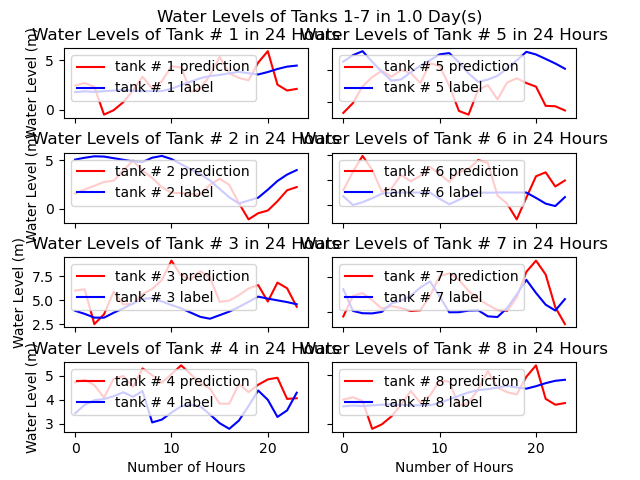
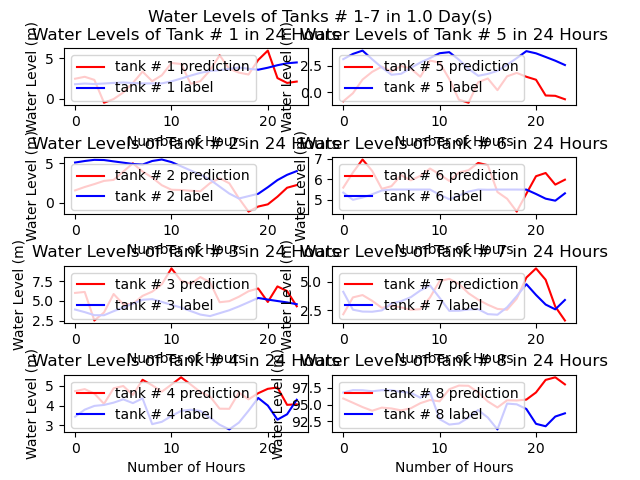
add plot flow rate

Changed region(s): [[0.0, 0.0, 0.9688, 0.9688], [0.8125, 0.0938, 0.9062, 0.1562]]

diff --git a/src/TGCN/tensorflow_model/utils/visualization.py b/src/TGCN/tensorflow_model/utils/visualization.py
@@ -47,7 +47,7 @@ def plot_result_tank(test_result, test_label, path, hour = 24):
     # plot 1 day for all water levels from tank 1-7
     fig1, axs = plt.subplots(4,2)
     hour_cal = float(hour) / 24.0
-    fig_name = "Water Levels of Tanks 1-7 in " + str(hour_cal) + " Day(s)"
+    fig_name = "Water Levels of Tanks # 1-7 in " + str(hour_cal) + " Day(s)"
     fig1.suptitle(fig_name)
     
     # tank 1
@@ -56,7 +56,8 @@ def plot_result_tank(test_result, test_label, path, hour = 24):
     axs[0, 0].plot(tank1_pred, "r-", label="tank # 1 prediction")
     axs[0, 0].plot(tank1_true, "b-", label="tank # 1 label")
     axs[0, 0].legend(loc="upper left", fontsize=10)
-    axs[0, 0].set_title("Water Levels of Tank # 1 in 24 Hours")
+    sub_hour_1 = "Water Levels of Tank # 1 in " + str(hour) + " Hours"
+    axs[0, 0].set_title(sub_hour_1)
     
     # tank 2
     tank2_pred = test_result[0:hour, 1] # 1 days for 1 cols
@@ -64,7 +65,8 @@ def plot_result_tank(test_result, test_label, path, hour = 24):
     axs[1, 0].plot(tank2_pred, "r-", label="tank # 2 prediction")
     axs[1, 0].plot(tank2_true, "b-", label="tank # 2 label")
     axs[1, 0].legend(loc="upper left", fontsize=10)
-    axs[1, 0].set_title("Water Levels of Tank # 2 in 24 Hours")
+    sub_hour_2 = "Water Levels of Tank # 2 in " + str(hour) + " Hours"
+    axs[1, 0].set_title(sub_hour_2)
 
     # tank 3
     tank3_pred = test_result[0:hour, 2] # 1 days for 1 cols
@@ -72,7 +74,8 @@ def plot_result_tank(test_result, test_label, path, hour = 24):
     axs[2, 0].plot(tank3_pred, "r-", label="tank # 3 prediction")
     axs[2, 0].plot(tank3_true, "b-", label="tank # 3 label")
     axs[2, 0].legend(loc="upper left", fontsize=10)
-    axs[2, 0].set_title("Water Levels of Tank # 3 in 24 Hours")
+    sub_hour_3 = "Water Levels of Tank # 3 in " + str(hour) + " Hours"
+    axs[2, 0].set_title(sub_hour_3)
     
     # tank 4
     tank4_pred = test_result[0:hour, 3] # 1 days for 1 cols
@@ -80,7 +83,8 @@ def plot_result_tank(test_result, test_label, path, hour = 24):
     axs[3, 0].plot(tank4_pred, "r-", label="tank # 4 prediction")
     axs[3, 0].plot(tank4_true, "b-", label="tank # 4 label")
     axs[3, 0].legend(loc="upper left", fontsize=10)
-    axs[3, 0].set_title("Water Levels of Tank # 4 in 24 Hours")
+    sub_hour_4 = "Water Levels of Tank # 4 in " + str(hour) + " Hours"
+    axs[3, 0].set_title(sub_hour_4)
     
     # tank 5
     tank5_pred = test_result[0:hour, 4] # 1 days for 1 cols
@@ -88,7 +92,8 @@ def plot_result_tank(test_result, test_label, path, hour = 24):
     axs[0, 1].plot(tank5_pred, "r-", label="tank # 5 prediction")
     axs[0, 1].plot(tank5_true, "b-", label="tank # 5 label")
     axs[0, 1].legend(loc="upper left", fontsize=10)
-    axs[0, 1].set_title("Water Levels of Tank # 5 in 24 Hours")
+    sub_hour_5 = "Water Levels of Tank # 5 in " + str(hour) + " Hours"
+    axs[0, 1].set_title(sub_hour_5)
     
     # tank 6
     tank6_pred = test_result[0:hour, 5] # 1 days for 1 cols
@@ -96,7 +101,8 @@ def plot_result_tank(test_result, test_label, path, hour = 24):
     axs[1, 1].plot(tank6_pred, "r-", label="tank # 6 prediction")
     axs[1, 1].plot(tank6_true, "b-", label="tank # 6 label")
     axs[1, 1].legend(loc="upper left", fontsize=10)
-    axs[1, 1].set_title("Water Levels of Tank # 6 in 24 Hours")
+    sub_hour_6 = "Water Levels of Tank # 6 in " + str(hour) + " Hours"
+    axs[1, 1].set_title(sub_hour_6)
     
     # tank 7
     tank7_pred = test_result[0:hour, 6] # 1 days for 1 cols
@@ -104,22 +110,24 @@ def plot_result_tank(test_result, test_label, path, hour = 24):
     axs[2, 1].plot(tank7_pred, "r-", label="tank # 7 prediction")
     axs[2, 1].plot(tank7_true, "b-", label="tank # 7 label")
     axs[2, 1].legend(loc="upper left", fontsize=10)
-    axs[2, 1].set_title("Water Levels of Tank # 7 in 24 Hours")
+    sub_hour_7 = "Water Levels of Tank # 7 in " + str(hour) + " Hours"
+    axs[2, 1].set_title(sub_hour_7)
     
     # tank 8
-    tank8_pred = test_result[0:hour, 0] # 1 days for 1 cols
-    tank8_true = test_label[0:hour, 0]  # 1 days for 1 cols
+    tank8_pred = test_result[0:hour, 7] # 1 days for 1 cols
+    tank8_true = test_label[0:hour, 7]  # 1 days for 1 cols
     axs[3, 1].plot(tank8_pred, "r-", label="tank # 8 prediction")
     axs[3, 1].plot(tank8_true, "b-", label="tank # 8 label")
     axs[3, 1].legend(loc="upper left", fontsize=10)
-    axs[3, 1].set_title("Water Levels of Tank # 8 in 24 Hours")
+    sub_hour_8 = "Water Levels of Tank # 8 in " + str(hour) + " Hours"
+    axs[3, 1].set_title(sub_hour_8)
 
     for ax in axs.flat:
         ax.set(xlabel='Number of Hours', ylabel='Water Level (m)')
     
-    # Hide x labels and tick labels for top plots and y ticks for right plots.
-    for ax in axs.flat:
-        ax.label_outer()
+    # # Hide x labels and tick labels for top plots and y ticks for right plots.
+    # for ax in axs.flat:
+    #     ax.label_outer()
       
     # set the spacing between subplots
     plt.subplots_adjust(left=0.1,
@@ -127,11 +135,134 @@ def plot_result_tank(test_result, test_label, path, hour = 24):
                         right=0.9, 
                         top=0.9, 
                         wspace=0.1, 
-                        hspace=0.5)  
+                        hspace=0.9)  
     
     plt.savefig(path + "/test_oneday_water_level.png")
     plt.show()
 
+def plot_result_pump(test_result, test_label, path, hour = 24):
+    """Plots test datasets ground truth labels vs predictions on ground truth features
+
+    Args:
+        test_result: Predictions on testing features.
+        test_label: Testing labels.
+        path: Saving image results in path.
+    """
+    # plot 1 day for all flowrate from pump 8-18
+    fig1, axs = plt.subplots(5,2)
+    hour_cal = float(hour) / 24.0
+    fig_name = "Flow Rates of Pumps # 8-18 in " + str(hour_cal) + " Day(s)"
+    fig1.suptitle(fig_name)
+    
+    # pump 1
+    pump1_pred = test_result[0:hour, 8] # 1 days for 1 cols
+    pump1_true = test_label[0:hour, 8]  # 1 days for 1 cols
+    axs[0, 0].plot(pump1_pred, "r-", label="pump # 1 prediction")
+    axs[0, 0].plot(pump1_true, "b-", label="pump # 1 label")
+    axs[0, 0].legend(loc="upper left", fontsize=10)
+    sub_hour_1 = "Flow Rates of Pump # 1 in " + str(hour) + " Hours"
+    axs[0, 0].set_title(sub_hour_1)
+    
+    # pump 2
+    pump2_pred = test_result[0:hour, 9] # 1 days for 1 cols
+    pump2_true = test_label[0:hour, 9]  # 1 days for 1 cols
+    axs[1, 0].plot(pump2_pred, "r-", label="pump # 2 prediction")
+    axs[1, 0].plot(pump2_true, "b-", label="pump # 2 label")
+    axs[1, 0].legend(loc="upper left", fontsize=10)
+    sub_hour_2 = "Flow Rates of Pump # 2 in " + str(hour) + " Hours"
+    axs[1, 0].set_title(sub_hour_2)
+
+    # pump 3
+    pump3_pred = test_result[0:hour, 10] # 1 days for 1 cols
+    pump3_true = test_label[0:hour, 10]  # 1 days for 1 cols
+    axs[2, 0].plot(pump3_pred, "r-", label="pump # 3 prediction")
+    axs[2, 0].plot(pump3_true, "b-", label="pump # 3 label")
+    axs[2, 0].legend(loc="upper left", fontsize=10)
+    sub_hour_3 = "Flow Rates of Pump # 3 in " + str(hour) + " Hours"
+    axs[2, 0].set_title(sub_hour_3)
+    
+    # pump 4
+    pump4_pred = test_result[0:hour, 11] # 1 days for 1 cols
+    pump4_true = test_label[0:hour, 11]  # 1 days for 1 cols
+    axs[3, 0].plot(pump4_pred, "r-", label="pump # 4 prediction")
+    axs[3, 0].plot(pump4_true, "b-", label="pump # 4 label")
+    axs[3, 0].legend(loc="upper left", fontsize=10)
+    sub_hour_4 = "Flow Rates of Pump # 4 in " + str(hour) + " Hours"
+    axs[3, 0].set_title(sub_hour_4)
+    
+    # pump 5
+    pump5_pred = test_result[0:hour, 12] # 1 days for 1 cols
+    pump5_true = test_label[0:hour, 12]  # 1 days for 1 cols
+    axs[4, 0].plot(pump5_pred, "r-", label="pump # 5 prediction")
+    axs[4, 0].plot(pump5_true, "b-", label="pump # 5 label")
+    axs[4, 0].legend(loc="upper left", fontsize=10)
+    sub_hour_5 = "Flow Rates of Pump # 5 in " + str(hour) + " Hours"
+    axs[4, 0].set_title(sub_hour_5)
+    
+    # pump 6
+    pump6_pred = test_result[0:hour, 13] # 1 days for 1 cols
+    pump6_true = test_label[0:hour, 13]  # 1 days for 1 cols
+    axs[0, 1].plot(pump6_pred, "r-", label="pump # 6 prediction")
+    axs[0, 1].plot(pump6_true, "b-", label="pump # 6 label")
+    axs[0, 1].legend(loc="upper left", fontsize=10)
+    sub_hour_6 = "Flow Rates of Pump # 6 in " + str(hour) + " Hours"
+    axs[0, 1].set_title(sub_hour_6)
+    
+    # pump 7
+    pump7_pred = test_result[0:hour, 14] # 1 days for 1 cols
+    pump7_true = test_label[0:hour, 14]  # 1 days for 1 cols
+    axs[1, 1].plot(pump7_pred, "r-", label="pump # 7 prediction")
+    axs[1, 1].plot(pump7_true, "b-", label="pump # 7 label")
+    axs[1, 1].legend(loc="upper left", fontsize=10)
+    sub_hour_7 = "Flow Rates of Pump # 7 in " + str(hour) + " Hours"
+    axs[1, 1].set_title(sub_hour_7)
+    
+    # pump 8
+    pump8_pred = test_result[0:hour, 15] # 1 days for 1 cols
+    pump8_true = test_label[0:hour, 15]  # 1 days for 1 cols
+    axs[2, 1].plot(pump8_pred, "r-", label="pump # 8 prediction")
+    axs[2, 1].plot(pump8_true, "b-", label="pump # 8 label")
+    axs[2, 1].legend(loc="upper left", fontsize=10)
+    sub_hour_8 = "Flow Rates of Pump # 8 in " + str(hour) + " Hours"
+    axs[2, 1].set_title(sub_hour_8)
+
+    # pump 9
+    pump7_pred = test_result[0:hour, 16] # 1 days for 1 cols
+    pump7_true = test_label[0:hour, 16]  # 1 days for 1 cols
+    axs[3, 1].plot(pump7_pred, "r-", label="pump # 7 prediction")
+    axs[3, 1].plot(pump7_true, "b-", label="pump # 7 label")
+    axs[3, 1].legend(loc="upper left", fontsize=10)
+    sub_hour_7 = "Flow Rates of Pump # 7 in " + str(hour) + " Hours"
+    axs[3, 1].set_title(sub_hour_7)
+    
+    # pump 10
+    pump8_pred = test_result[0:hour, 17] # 1 days for 1 cols
+    pump8_true = test_label[0:hour, 17]  # 1 days for 1 cols
+    axs[4, 1].plot(pump8_pred, "r-", label="pump # 8 prediction")
+    axs[4, 1].plot(pump8_true, "b-", label="pump # 8 label")
+    axs[4, 1].legend(loc="upper left", fontsize=10)
+    sub_hour_8 = "Flow Rates of Pump # 8 in " + str(hour) + " Hours"
+    axs[4, 1].set_title(sub_hour_8)
+
+    for ax in axs.flat:
+        ax.set(xlabel='Number of Hours', ylabel='Water Level (m)')
+    
+    # # Hide x labels and tick labels for top plots and y ticks for right plots.
+    # for ax in axs.flat:
+    #     ax.label_outer()
+      
+    # set the spacing between subplots
+    plt.subplots_adjust(left=0.1,
+                        bottom=0.1, 
+                        right=0.9, 
+                        top=0.9, 
+                        wspace=0.1, 
+                        hspace=0.9)  
+    
+    plt.savefig(path + "/test_oneday_flow_rate.png")
+    plt.show()
+
+    
 def plot_error(
     train_rmse, train_loss, test_rmse, test_acc, test_mae, path, plot_eval=False
 ):

diff --git a/src/TGCN/tensorflow_model/main.py b/src/TGCN/tensorflow_model/main.py
@@ -9,6 +9,7 @@ from utils import load_scada_data
 from models import TGCNCell
 from utils import plot_error
 from utils import plot_result_tank
+from utils import plot_result_pump
 from utils import evaluation
 import time
 
@@ -260,7 +261,7 @@ def train_and_eval():
     test_result = test_pred[index]
     var = pd.DataFrame(test_result) # gets the prediction to unnormalized result
     var.to_csv(path + "/test_result.csv", index=False, header=False)
-    plot_result(test_result, test_label1, path)
+    plot_result_tank(test_result, test_label1, path)
     plot_error(train_rmse, train_loss, test_rmse, test_acc, test_mae, path)
 
     print("-----------------------------------------------\nEvaluation Metrics:")
@@ -346,6 +347,7 @@ def load_and_eval():
 
     # Plots results
     plot_result_tank(test_result, test_label1, eval_path, hour = 24)
+    plot_result_pump(test_result, test_label1, eval_path, hour = 24)
 
     # Prints out testing results
     print("-----------------------------------------------\nEvaluation Metrics:")

diff --git a/src/TGCN/tensorflow_model/utils/__init__.py b/src/TGCN/tensorflow_model/utils/__init__.py
@@ -4,4 +4,5 @@ from utils.input_data import preprocess_data
 from utils.input_data import load_scada_data
 from utils.visualization import plot_error
 from utils.visualization import plot_result_tank
+from utils.visualization import plot_result_pump
 from utils.helper_functions import evaluation
